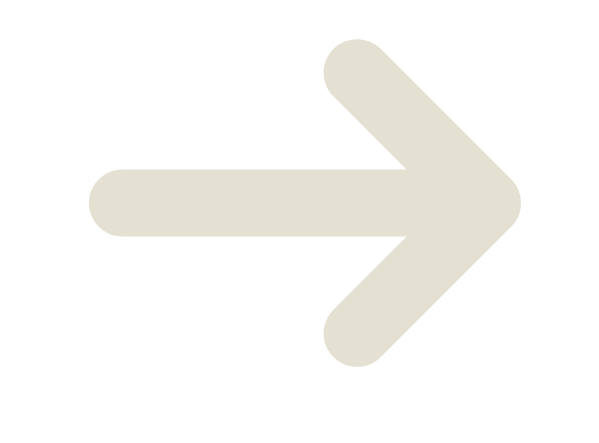
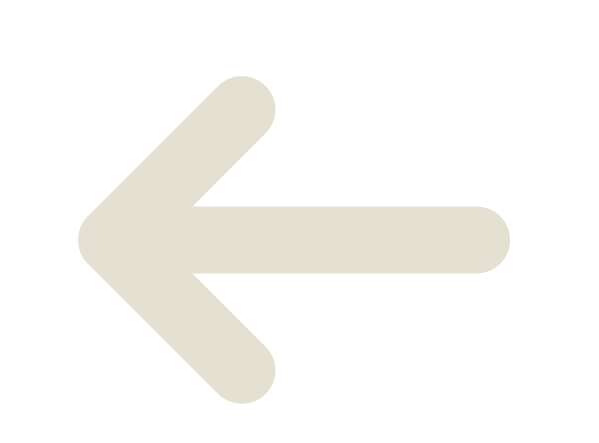
Delete/ViewProfilestuff

Changed region(s): [[0.1202, 0.088, 0.8715, 0.9097]]

diff --git a/PhotoGallery.js b/PhotoGallery.js
@@ -208,14 +208,16 @@ export default function PhotoGallery({ onOpenSettings, user }) {
                   style={modalStyles.fullImage}
                   resizeMode="contain"
                 />
-                <View style={modalStyles.photoActions}>
-                  <TouchableOpacity
-                    style={modalStyles.deleteButton}
-                    onPress={() => handleDelete(selectedPhoto)}
-                  >
-                    <Text style={modalStyles.actionButtonText}>🗑</Text>
-                  </TouchableOpacity>
-                </View>
+                <TouchableOpacity 
+                  style={modalStyles.deleteButton}
+                  onPress={() => handleDelete(selectedPhoto)}
+                >
+                  <Image
+                    source={require('./waddl/Prettier/Delete_button.png')}
+                    style={modalStyles.deleteIcon}
+                    resizeMode="contain"
+                  />
+                </TouchableOpacity>
               </View>
 
               {/* Slide 2: Route */}
@@ -257,11 +259,13 @@ const modalStyles = StyleSheet.create({
     justifyContent: 'center', alignItems: 'center',
   },
   fullImage: { width: SCREEN_WIDTH, height: SCREEN_HEIGHT * 0.75 },
-  photoActions: { flexDirection: 'row', gap: 20, marginTop: 20 },
   deleteButton: {
-    width: 55, height: 55, borderRadius: 27.5,
-    backgroundColor: 'rgba(200,0,0,0.85)', justifyContent: 'center', alignItems: 'center',
+    position: 'absolute',
+    bottom: 40,
+    alignSelf: 'center',
   },
+  deleteIcon: { width: 200, height: 200 },
+  photoActions: { flexDirection: 'row', gap: 20, marginTop: 20 },
   actionButtonText: { fontSize: 24 },
   swipeHint: { position: 'absolute', bottom: 45, width: '100%', alignItems: 'center' },
   swipeHintText: { color: 'rgba(255,255,255,0.5)', fontSize: 13, fontFamily: 'LilitaOne_400Regular' },

diff --git a/MapScreen.web.js b/MapScreen.web.js
@@ -220,9 +220,16 @@ export default function MapScreen() {
               {searching ? (
                 <ActivityIndicator size="small" color="#e4e1d3" />
               ) : (
-                <Text style={styles.dropBtnText}>
-                  {pinInfo ? '🔄 Find New Destination' : '📍 Find Destination'}
-                </Text>
+                <View style={styles.dropBtnContent}>
+                  <Image
+                    source={require('./waddl/Prettier/Flip.png')}
+                    style={styles.flipImage}
+                    resizeMode="contain"
+                  />
+                  <Text style={styles.dropBtnText}>
+                    {pinInfo ? 'Find New Destination' : 'Find Destination'}
+                  </Text>
+                </View>
               )}
             </TouchableOpacity>
 
@@ -278,6 +285,8 @@ const styles = StyleSheet.create({
   controls: { backgroundColor: '#e4e1d3', paddingHorizontal: 16, paddingVertical: 10, borderBottomWidth: 1, borderBottomColor: '#d0cdb8', gap: 10 },
   dropBtn: { backgroundColor: '#29412c', paddingVertical: 10, borderRadius: 8, alignItems: 'center' },
   dropBtnDisabled: { backgroundColor: '#aaa' },
+  dropBtnContent: { flexDirection: 'row', alignItems: 'center', gap: 8 },
+  flipImage: { width: 24, height: 24 },
   dropBtnText: { color: '#e4e1d3', fontFamily: 'LilitaOne_400Regular', fontSize: 15 },
   routeInfo: { flexDirection: 'row', gap: 16 },
   routeInfoText: { fontSize: 13, fontFamily: 'LilitaOne_400Regular', color: '#333' },

diff --git a/HomeFeed.js b/HomeFeed.js
@@ -509,9 +509,17 @@ export default function HomeFeed() {
         <View style={styles.profilePageContainer}>
           <View style={styles.profilePageHeader}>
             <TouchableOpacity onPress={closeProfilePage} style={styles.backBtn} hitSlop={{ top: 10, bottom: 10, left: 10, right: 10 }}>
-              <Text style={styles.backBtnText}>← Back</Text>
+              <Image
+                source={require('./waddl/Prettier/Arrow.png')}
+                style={styles.backArrow}
+                resizeMode="contain"
+              />
             </TouchableOpacity>
-            <Text style={styles.profilePageTitle}>@{profilePage?.username}</Text>
+            <Image
+              source={require('./waddl/Prettier/New_name.png')}
+              style={styles.profilePageLogo}
+              resizeMode="contain"
+            />
             <View style={{ width: 60 }} />
           </View>
 
@@ -730,7 +738,9 @@ const styles = StyleSheet.create({
     borderBottomRightRadius: 20,
   },
   backBtn: { width: 60 },
+  backArrow: { width: 40, height: 40 },
   backBtnText: { fontSize: 15, fontFamily: 'LilitaOne_400Regular', color: '#e4e1d3' },
+  profilePageLogo: { height: 50, width: 160 },
   profilePageTitle: { fontSize: 18, fontFamily: 'LilitaOne_400Regular', color: '#e4e1d3' },
   profilePageContent: { paddingBottom: 40 },
   profilePageTop: { alignItems: 'center', paddingTop: 30, paddingBottom: 24, paddingHorizontal: 24 },